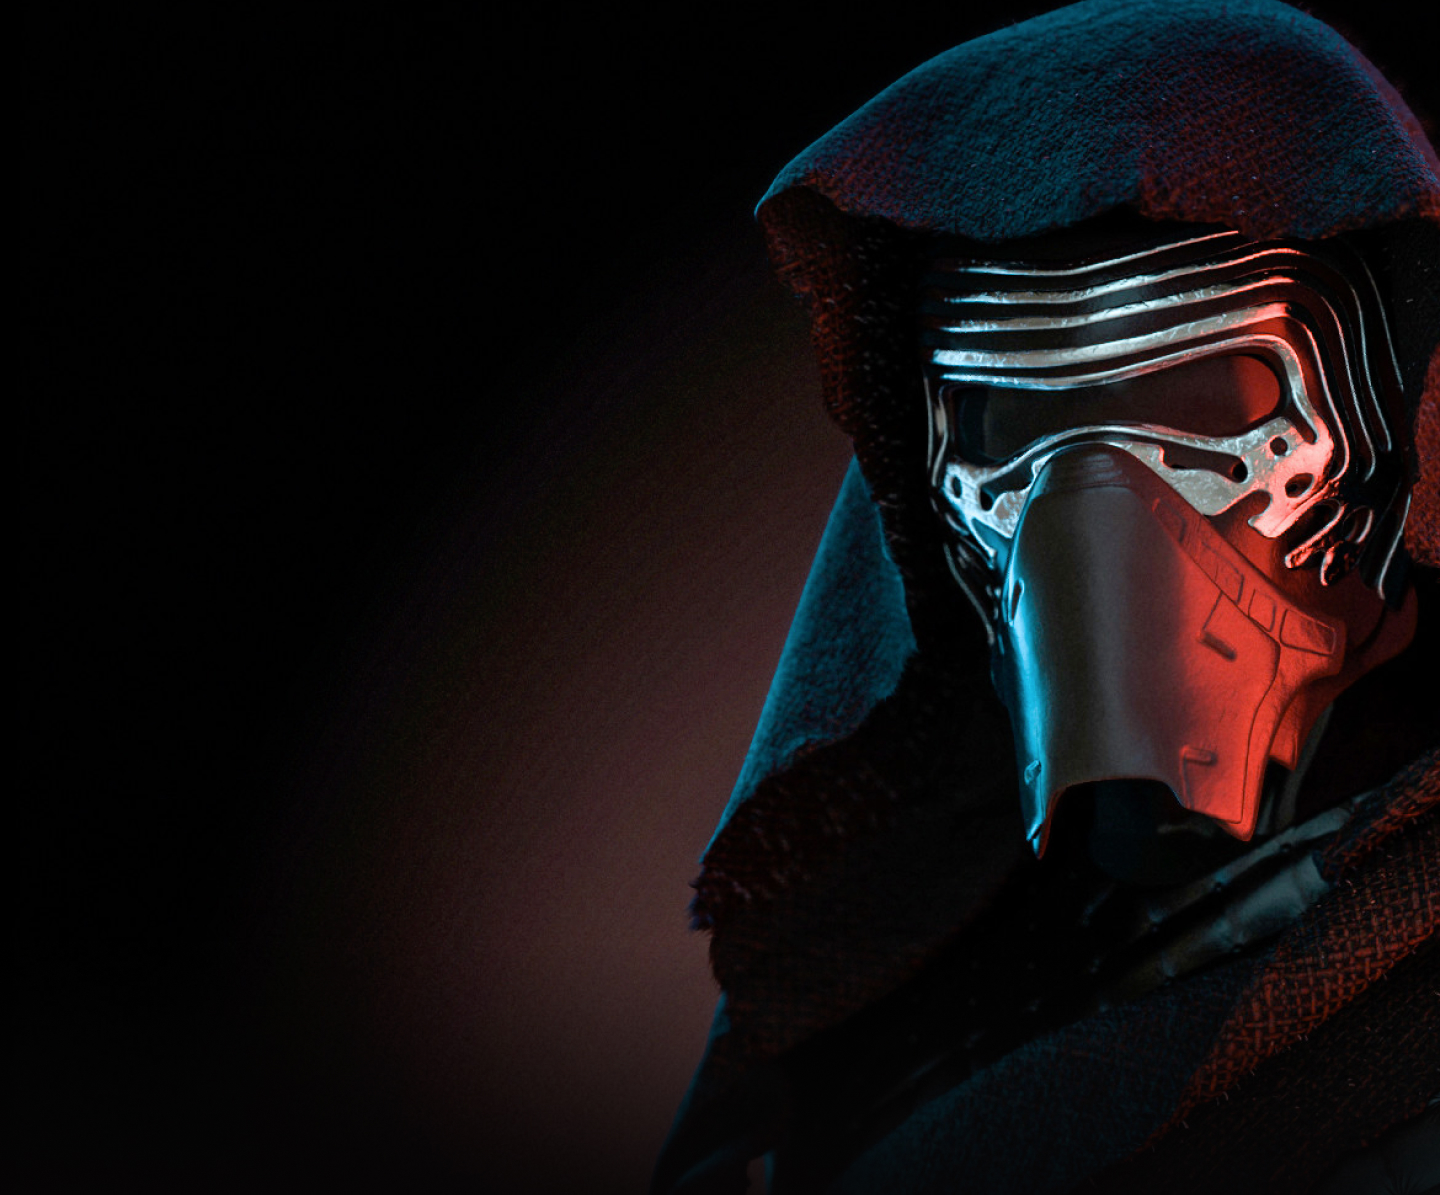
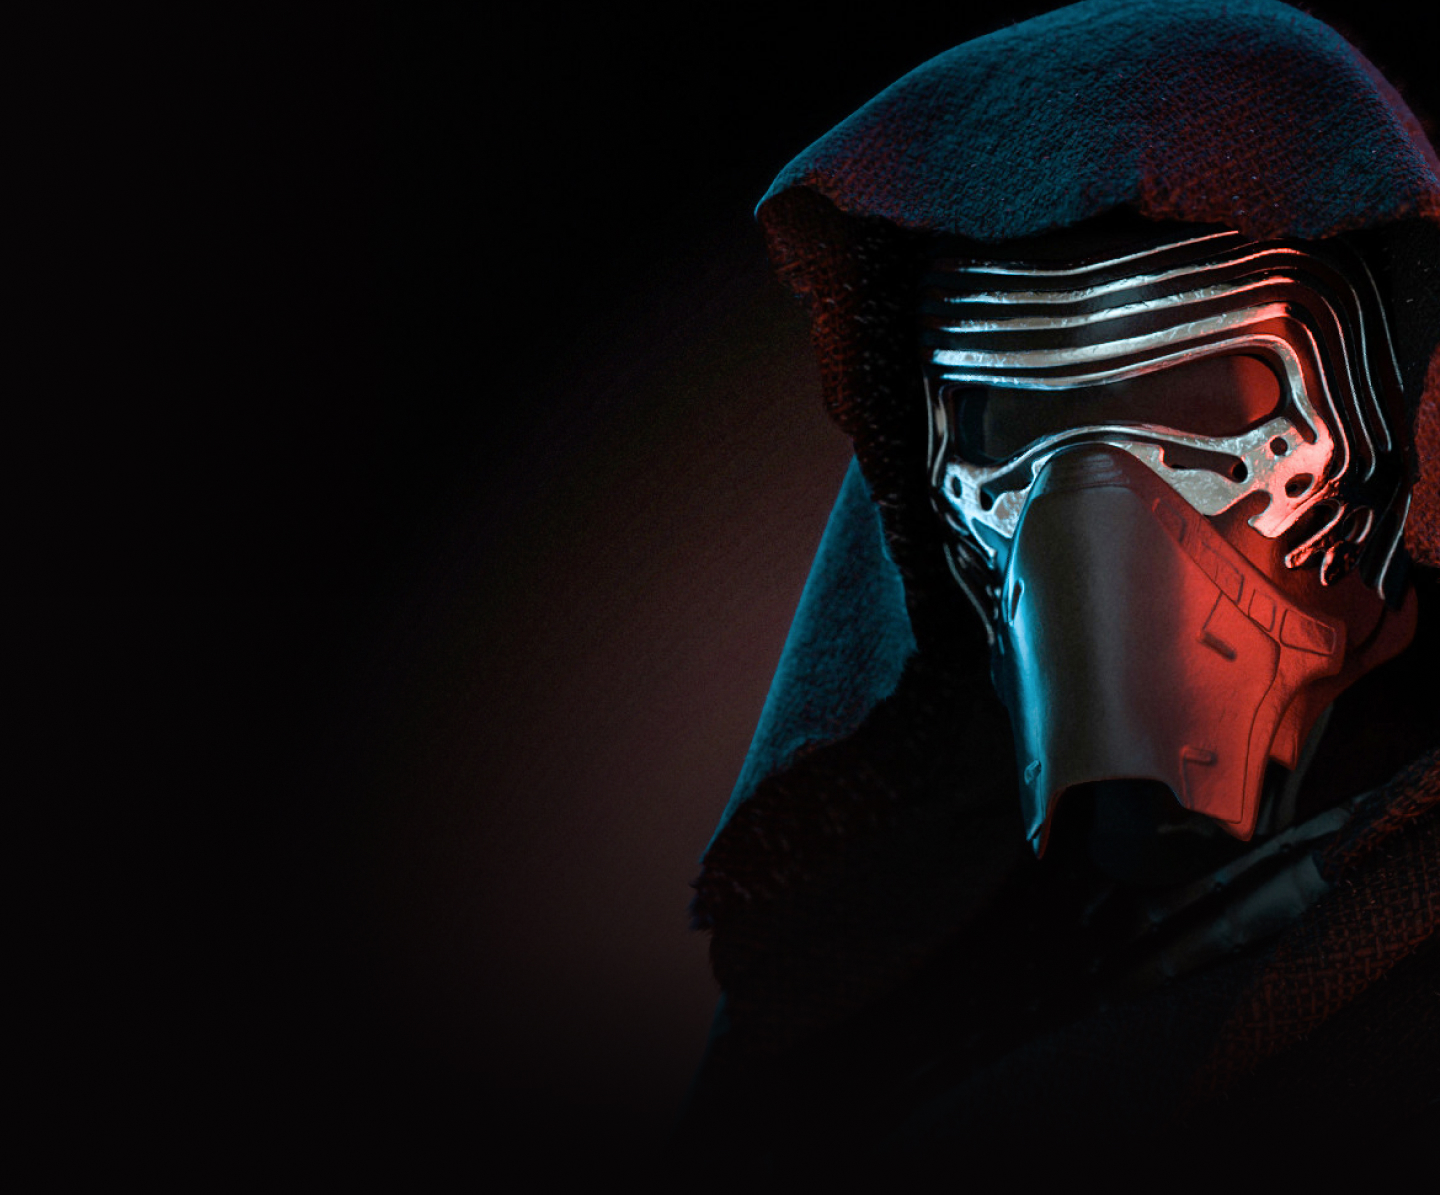
bg-img

diff --git a/css/style.css b/css/style.css
@@ -209,14 +209,12 @@ body {
 @media (max-width: 1200px) {
   body {
     background: #070506 url(../img/main-bg1.jpg) top right 50% no-repeat;
-    /* background-size: contain; */
-    /* background-attachment: fixed; */
   }
 }
 
 @media (max-width: 1000px) {
   body {
-    background: #070506 url(../img/main-bg1.jpg) top right 70% no-repeat;
+    background: #070506 url(../img/main-bg1.jpg) top right 60% no-repeat;
     /* background-size: contain; */
     background-attachment: fixed;
   }
